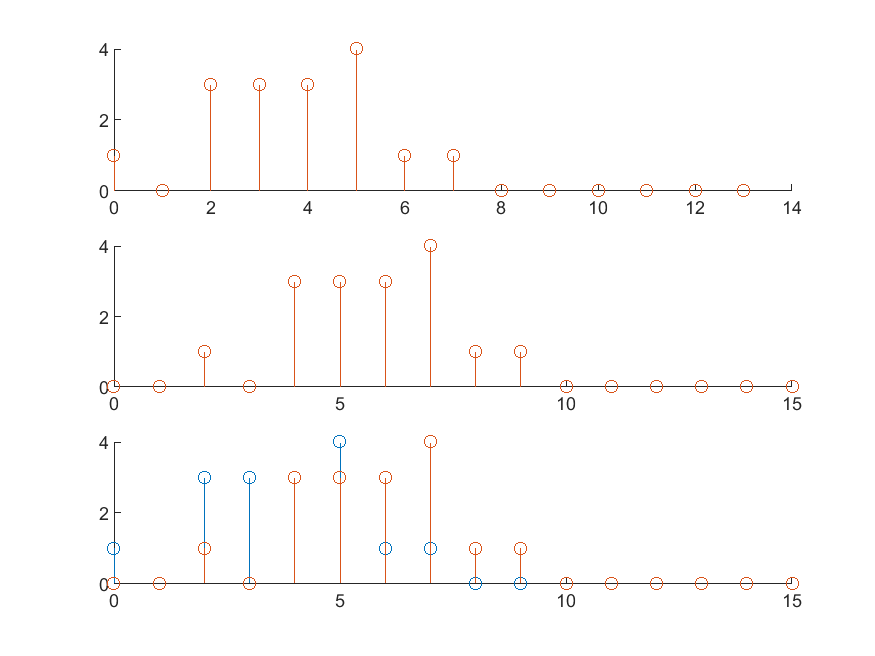
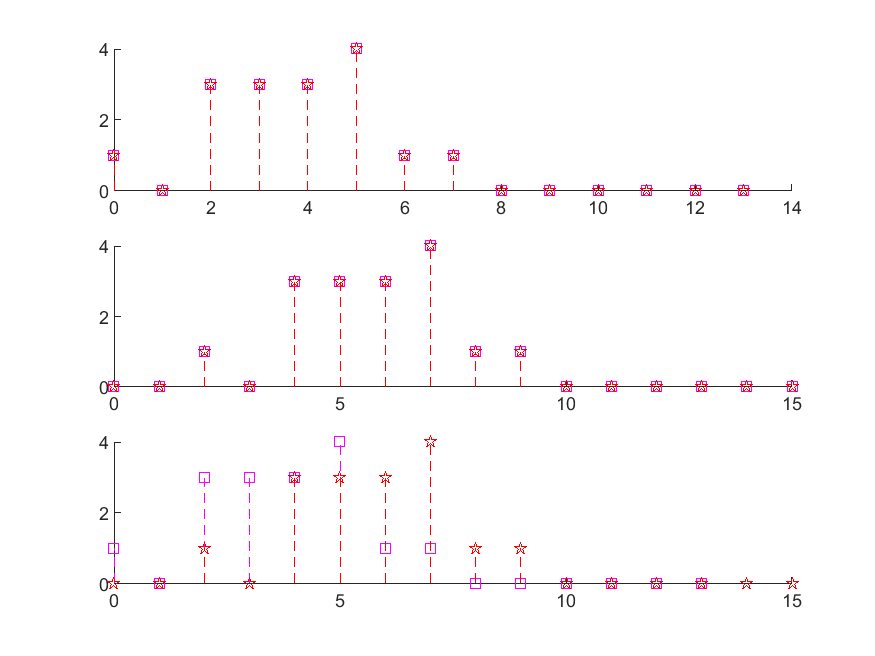
update lab 2

diff --git a/LAB2/P2_4_f.m b/LAB2/P2_4_f.m
@@ -1,11 +1,11 @@
 % Problem 2.4(f)
 
 x1 = [1 1 1 1 0 0 0 0 0 0];
-nx1 = 0:1:9;
+nx1 = 0:9;
 
 h1 = [1 -1 3 0 1];
 h2 = [0 2 5 4 -1];
-nh1 = 0:1:4;
+nh1 = 0:4;
 
 w = x1.*(nx1+1);
 hw = nx1;
@@ -23,13 +23,17 @@ hseries = conv(hf1, hf2);
 nhseries = (nhf1(1)+nhf2(1)):1:(nhf1(end)+nhf2(end));
 
 yf2 = conv(x1, hseries);
-nyf2 = (x1(1)+nhseries(1)):1:(x1(end)+nhseries(end));
+nyf2 = (nx1(1)+nhseries(1)):(nx1(end)+nhseries(end));
 
 figure;
-stem(nyf1, yf1);
-stem(nyf2, yf2);
+hold on
+stem(nyf1, yf1, 'm--s');
+stem(nyf2, yf2, 'r--p');
+title('y_{f1}[n] & y_{f2}[n]');
+legend('y_{f1}[n]', 'y_{f2}[n]', 'Location', 'northeast');
+xlabel('n');
 
-saveas(gcf, "P2_4_f_out.png");
+saveas(gcf, "plots/P2_4_f_out.png");
 close;
 
 

diff --git a/LAB2/P2_4_e.m b/LAB2/P2_4_e.m
@@ -1,5 +1,5 @@
 % Problem 2.4(e)
-
+% TODO Check it!!!!
 x1 = [1 1 1 1 0 0 0 0 0 0];
 nx1 = 0:1:9;
 
@@ -21,18 +21,19 @@ ye2_inter = conv(he2, x1)
 
 subplot(3,1,1);
 hold on
-stem(nye1, ye1);
-stem(nye1, ye1_inter);
+stem(nye1, ye1, 'm--s');
+stem(nye1, ye1_inter, 'r--p');
+legend('y_{e1}[n] = x_1[n]*h_{e1}[n]', 'y_{e1}[n] = x_1[n]*h_{e1}[n]', 'Location', 'northeast');
 
 subplot(3,1,2);
 hold on
-stem(nye2, ye2);
-stem(nye2, ye2_inter);
+stem(nye2, ye2, 'm--s');
+stem(nye2, ye2_inter, 'r--p');
 
 subplot(3,1,3);
 hold on
-stem(nye1, ye1);
-stem(nye2, ye2);
+stem(nye1, ye1, 'm--s');
+stem(nye2, ye2, 'r--p');
 
 saveas(gcf, "plots/P2_4_e_out.png");
 close;

diff --git a/LAB2/P2_4_d.m b/LAB2/P2_4_d.m
@@ -13,7 +13,7 @@ y2 = conv(x1, conv(h1, h2));
 ny = nh1(1)+nx1(1):1:nh1(end)+nh1(end)+nx1(end)
 
 subplot(2,1,1), stem(ny, y1), title("y_2[n]=(x_1[n]*h_1[n])*h_2[n]");
-subplot(2,1,2), stem(ny, y2), title("y_1[n]=x_1[n]*(h_1[n]+h_2[n])");
+subplot(2,1,2), stem(ny, y2), title("y_1[n]=x_1[n]*(h_1[n]*h_2[n])");
 
 saveas(gcf, "plots/P2_4_d_out.png");
 close;

diff --git a/LAB2/P2_4_g.m b/LAB2/P2_4_g.m
@@ -30,8 +30,12 @@ hparallel = hg1 + hg2;
 yg2 = conv(xg, hparallel);
 nyg2 = nyg1;
 
-stem(nyg1, yg1);
-stem(nyg2, yg2);
+figure;
+hold on;
+stem(nyg1, yg1, 'm--s');
+stem(nyg2, yg2, 'r--p');
+title('y_{g1}[n] & y_{g2}[n]');
+legend('y_{g1}[n]', 'y_{g2}[n]', 'Location', 'northeast');
 
 saveas(gcf, "plots/P2_4_g_out.png");
 close;
